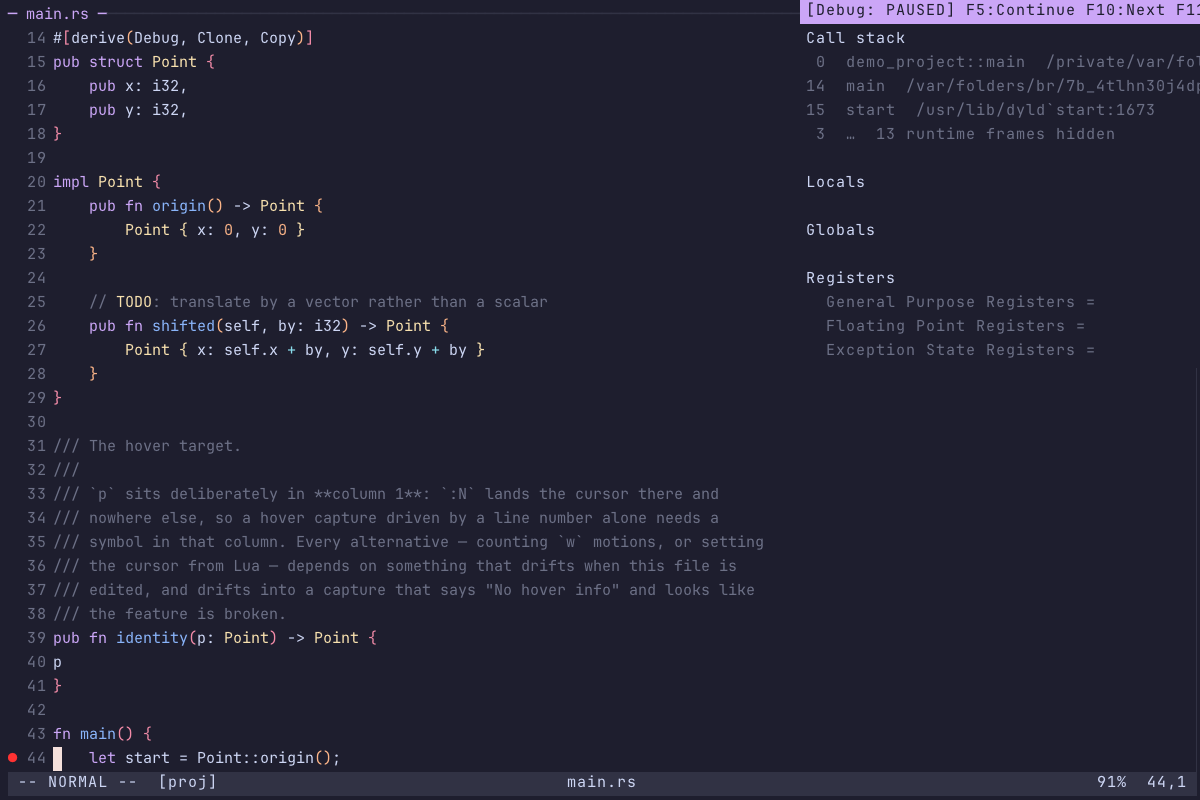
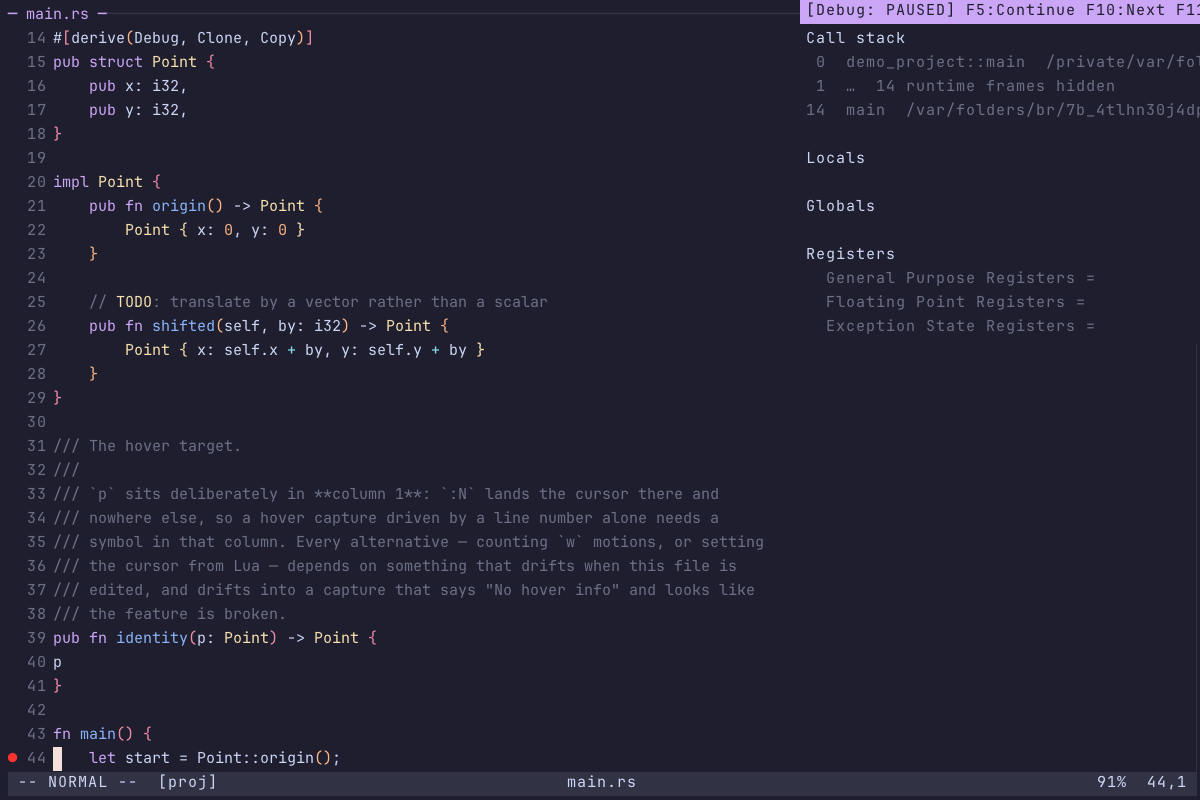
docs(phase10): final sweep — 32 pairs, and three more defects it found
`just verify` produced all 32 pairs: 64 artifacts, none empty, every one read
rather than skimmed. Every surface shows its content. The one exception is
`hover`, where the scripted capture stays unreliable against a throwaway project
path though the feature works by hand — documented rather than filed, having
already reported that as a defect once and been wrong.

Three more defects, all found by the sweep rather than by reading code:

- `echo_at` wrote only to the toast. It is the choke point for ~90
  echo/echo_warn/echo_error sites — "Session saved", every internal warning —
  so all of it expired in seconds and `:messages` never saw any of it. Fixing
  the `:echo` command earlier in this branch had left the other ninety. The
  empty `sessions` capture was the tell, and I had written it off in the README
  as "needs a project root"; it needed one *and* was hiding this.
- `:q!` did not quit with the settings page open. ForceQuit was grouped with
  `:q` and `:Settings`, all three closing the page and returning, so there was
  no way out while it was up. The harness found it by timing out on the one
  surface whose deferred `:q!` never took effect.
- The call-stack fold numbered its summary row by position, putting a `3` under
  frames 0, 14 and 15 — a number that looked like a frame and belonged to none.
  It now carries the depth of the first frame it stands for, and `/usr/lib/`
  folds too, so the dynamic loader's `start` stops posing as user code.
[…]

Changed region(s): [[0.6783, 0.1875, 0.8942, 0.4375], [0.7092, 0.0938, 1.0, 0.1875]]

diff --git a/crates/ruster-tui/src/app.rs b/crates/ruster-tui/src/app.rs
@@ -528,6 +528,7 @@ fn is_runtime_frame(loc: &str) -> bool {
         "/library/std/",
         "/library/core/",
         "/library/alloc/",
+        "/usr/lib/",          // the dynamic loader — `dyld`start` is not the user's
     ];
     RUNTIME.iter().any(|m| loc.contains(m))
 }
@@ -4617,8 +4618,19 @@ impl App {
                     self.settings = None;
                     return;
                 }
-                CmdAction::Quit | CmdAction::ForceQuit | CmdAction::Settings => {
+                // `:q` and `:Settings` close the page — leaving it is what the
+                // user is asking for. `:q!` is not that: it means quit the
+                // editor, forcefully, and swallowing it left no way to exit
+                // while the page was up. The capture harness found this by
+                // timing out on the one surface whose deferred `:q!` never
+                // took effect.
+                CmdAction::Quit | CmdAction::Settings => {
                     self.settings = None;
+                    return;
+                }
+                CmdAction::ForceQuit => {
+                    self.settings = None;
+                    self.should_quit = true;
                     return;
                 }
                 // Taking a picture of a page is not asking to leave it. This
@@ -4816,19 +4828,9 @@ impl App {
                     format!("{} = {} (default)", key, default.display()),
                 ));
             }
-            CmdAction::Echo(text, level) => {
-                // Both stores, not just the transient one. The toast expires
-                // after `noice.*_timeout`; the log is what `:messages` reads.
-                // Writing only the toast meant every `:echo`, `:echom` and
-                // `:echoe` vanished for good and `:messages` opened an empty
-                // buffer — the one surface whose whole job is remembering.
-                self.push_message(
-                    level,
-                    ruster_core::message::MessageSource::Echo,
-                    text.clone(),
-                );
-                self.notify.push(Notification::new(level, ruster_core::message::MessageSource::Echo, text));
-            }
+            // Through `echo_at`, which records as well as shows — the same path
+            // every internal message takes, rather than a second copy of it.
+            CmdAction::Echo(text, level) => self.echo_at(level, text),
             CmdAction::NoicePanel => self.show_noice_panel = !self.show_noice_panel,
             CmdAction::NoiceSplit => self.open_noice_split(),
             CmdAction::NoicePopup => {
@@ -5827,11 +5829,21 @@ impl App {
         self.echo_at(ruster_core::message::MessageLevel::Error, msg);
     }
 
+    /// Show a message and record it.
+    ///
+    /// Both stores, not just the toast. This is the choke point for all 90-odd
+    /// `echo`/`echo_warn`/`echo_error`/`echo_success` sites — "Session saved",
+    /// "No files open", every warning the editor raises about itself — and it
+    /// wrote only to the transient one, so all of it expired after a couple of
+    /// seconds and `:messages` had nothing to show. The surface whose entire
+    /// job is remembering was the one thing these never reached.
     fn echo_at(&mut self, level: ruster_core::message::MessageLevel, msg: impl Into<String>) {
+        let text = msg.into();
+        self.push_message(level, ruster_core::message::MessageSource::Echo, text.clone());
         self.notify.push(Notification::new(
             level,
             ruster_core::message::MessageSource::Echo,
-            msg.into(),
+            text,
         ));
     }
 
@@ -8024,11 +8036,21 @@ impl App {
             // worse than showing everything.
             stack = all;
         } else if hidden > 0 {
+            // The kept frames keep their original depths, so the summary must
+            // carry the depth of the first frame it stands for. Numbering it
+            // by position instead put a `3` under frames 0, 14 and 15 — a
+            // number that looked like a frame and belonged to none.
+            let first_hidden = all
+                .iter()
+                .find(|(_, _, loc)| is_runtime_frame(loc))
+                .map(|(d, _, _)| *d)
+                .unwrap_or(0);
             stack.push((
-                stack.len() as u16,
+                first_hidden,
                 "…".to_string(),
                 format!("{hidden} runtime frame{} hidden", if hidden == 1 { "" } else { "s" }),
             ));
+            stack.sort_by_key(|(d, _, _)| *d);
         }
         let scopes: Vec<(String, Vec<(String, String)>)> = session
             .variables
@@ -9998,6 +10020,8 @@ mod tests {
         assert!(is_runtime_frame("?"), "a frame with no source cannot be opened");
         assert!(is_runtime_frame("?:0"));
 
+        assert!(is_runtime_frame("/usr/lib/dyld`start:1673"), "the loader is not the user's");
+
         assert!(!is_runtime_frame("/Users/x/Dev/demo/src/main.rs:31"));
         assert!(!is_runtime_frame("/tmp/proj/src/lib.rs:1"));
         // A project that merely has "library" in its path is still the user's.
@@ -10025,6 +10049,53 @@ mod tests {
         assert_eq!(items.len(), 1, "one marker in the fixture: {items:?}");
         assert_eq!(items[0].line, 3, "the TODO is on line 3, one-based");
         assert_eq!(items[0].col, 4, "and column 4, one-based");
+    }
+
+    /// `:q!` quits even with the settings page open.
+    ///
+    /// `:q` and `:Settings` close the page — leaving it is what is being asked
+    /// for — but `:q!` means quit the editor, and swallowing it left no way out
+    /// while the page was up. Found by the capture harness, whose deferred
+    /// `:q!` never took effect on that one surface and hit the timeout.
+    #[test]
+    fn force_quit_still_quits_with_the_settings_page_open() {
+        let mut a = App::new("x".into(), PathBuf::from("f.txt"));
+        a.apply_cmd(CmdAction::Settings);
+        assert!(a.settings.is_some());
+        a.apply_cmd(CmdAction::ForceQuit);
+        assert!(a.should_quit, "`:q!` means quit, page or no page");
+
+        // `:q` still just closes the page.
+        let mut b = App::new("x".into(), PathBuf::from("f.txt"));
+        b.apply_cmd(CmdAction::Settings);
+        b.apply_cmd(CmdAction::Quit);
+        assert!(b.settings.is_none(), "`:q` closes the page");
+        assert!(!b.should_quit, "and does not quit the editor");
+    }
+
+    /// Messages the editor raises about itself reach the log too, not only
+    /// `:echo`.
+    ///
+    /// `echo_at` is the choke point for ~90 `echo`/`echo_warn`/`echo_error`
+    /// sites — "Session saved", "No files open", every internal warning — and
+    /// it wrote to the toast alone, so all of it expired in seconds and
+    /// `:messages` had nothing. Fixing only the `:echo` command would have left
+    /// the other ninety.
+    #[test]
+    fn internal_messages_are_recorded_in_the_message_log() {
+        let mut a = App::new("x".into(), PathBuf::from("f.txt"));
+        a.echo("saved something");
+        a.echo_warn("a warning".to_string());
+        a.echo_error("a failure".to_string());
+        a.apply_cmd(CmdAction::Messages);
+
+        let text = {
+            let w = a.ws.borrow();
+            w.buffers.get(a.messages_buf.expect("messages buffer")).unwrap().buffer.to_string()
+        };
+        for needle in ["saved something", "a warning", "a failure"] {
+            assert!(text.contains(needle), "the log kept {needle:?}: {text:?}");
+        }
     }
 
     /// `:echo` has to reach the log, not just the toast.

diff --git a/docs/superpowers/plans/2026-08-02-phase10-verification.md b/docs/superpowers/plans/2026-08-02-phase10-verification.md
@@ -1,7 +1,7 @@
 # Phase 10 — Verification
 
-**Status:** harness built and the matrix captured, 2026-08-06; findings
-adjudicated 2026-08-07. Seven defects were reported and routed to Phase 9 Task
+**Status:** complete, 2026-08-07. Harness built, matrix captured, findings
+adjudicated, final sweep run. Seven defects were reported and routed to Phase 9 Task
 4b — **three of them were mis-diagnosed and have been retracted**, five real
 ones (plus one found underneath a false one) are fixed. See
 `docs/verification/README.md` for the per-surface status table and for the two
@@ -133,8 +133,29 @@ the README.
       groups overwriting each other in a narrow window, and a dashboard
       advertising a command that does not exist. The matrix stays open until
       those are fixed and recaptured.
-- [ ] **Task: final sweep** (blocked on the Task 4b fixes; a recapture now
-      would only re-photograph the same defects). `just verify all` produces every pair; confirm the
+- [x] **Task: final sweep**, 2026-08-07. `just verify` produced all 32 pairs —
+      64 artifacts, none empty, all read rather than skimmed. Every surface
+      shows its content; the one exception is `hover`, where the scripted
+      capture is unreliable against a throwaway project path though the feature
+      works by hand (see `docs/verification/README.md`).
+
+      The sweep paid for itself again, finding three more defects:
+
+      - **`echo_at` wrote only to the toast.** The choke point for ~90
+        `echo`/`echo_warn`/`echo_error` sites — "Session saved", every internal
+        warning — so all of it expired in seconds and `:messages` never saw it.
+        Fixing the `:echo` *command* earlier had left the other ninety; the
+        empty `sessions` capture was the tell, which I had previously written
+        off in the README as "needs a project root". It needed one *and* was
+        hiding this.
+      - **`:q!` did not quit with the settings page open.** `ForceQuit` was
+        grouped with `:q` and `:Settings`, all three closing the page and
+        returning, so there was no way out while it was up. Found by the
+        harness timing out on the one surface whose deferred `:q!` never took
+        effect.
+      - **The call-stack fold numbered its summary row by position**, putting a
+        `3` under frames 0, 14 and 15. It now carries the depth of the first
+        frame it stands for, and `/usr/lib/` (the dynamic loader) folds too. `just verify all` produces every pair; confirm the
       tree is clean, docs/verification is committed, and the matrix has no
       empty cells.
 

diff --git a/docs/verification/README.md b/docs/verification/README.md
@@ -109,15 +109,15 @@ Status is what the artifacts currently show, not what is intended.
 | `help` | `:help` | long markup buffer | ok |
 | `messages` | `:echo` ×2, `:messages` | the two messages in the log | ok (`:echo` now reaches the log) |
 | `mason` | `:Mason` | `✓`/`·` glyphs, install commands | ok |
-| `projects` | `:projects` | recent project list | needs a persistent config dir; warns otherwise |
+| `projects` | `:projects` | recent project list | ok (the spec seeds `recent-projects`) |
 | `noice-toast` | `:echo` | mini toast, top right | ok |
 | `noice-panel` | `:echo` ×2, `:Noice` | stacking panel | shows only `Notify`-routed messages; `:echo` routes to `Mini` |
 | `noice-popup` | `:Noice popup` | centred popup float | ok |
 | `dialog` | `ruster.ui.dialog` | modal above every float | ok |
 | `hover` | fixture project, deferred `:hover` | float with rustdoc, wrapped and clamped | works by hand; scripted capture unreliable — see note |
-| `debugger` | fixture project, breakpoint, deferred `:debug` | `[Debug: PAUSED]`, call stack, scopes | ok (runtime frames now folded) |
+| `debugger` | fixture project, breakpoint, deferred `:debug` | `[Debug: PAUSED]`, call stack, scopes | ok — runtime frames folded, at the depth they stand for |
 | `terminal` | `:term` | shell prompt, TERMINAL mode | ok |
-| `sessions` | `:SessionSave` | confirmation in the log | needs a project root |
+| `sessions` | `:SessionSave` | confirmation in the log | ok (`Session saved (N files)`) |
 | `gotoline` | `:16` | cursor and statusline agree | ok |
 
 ## Two ways a capture lies
